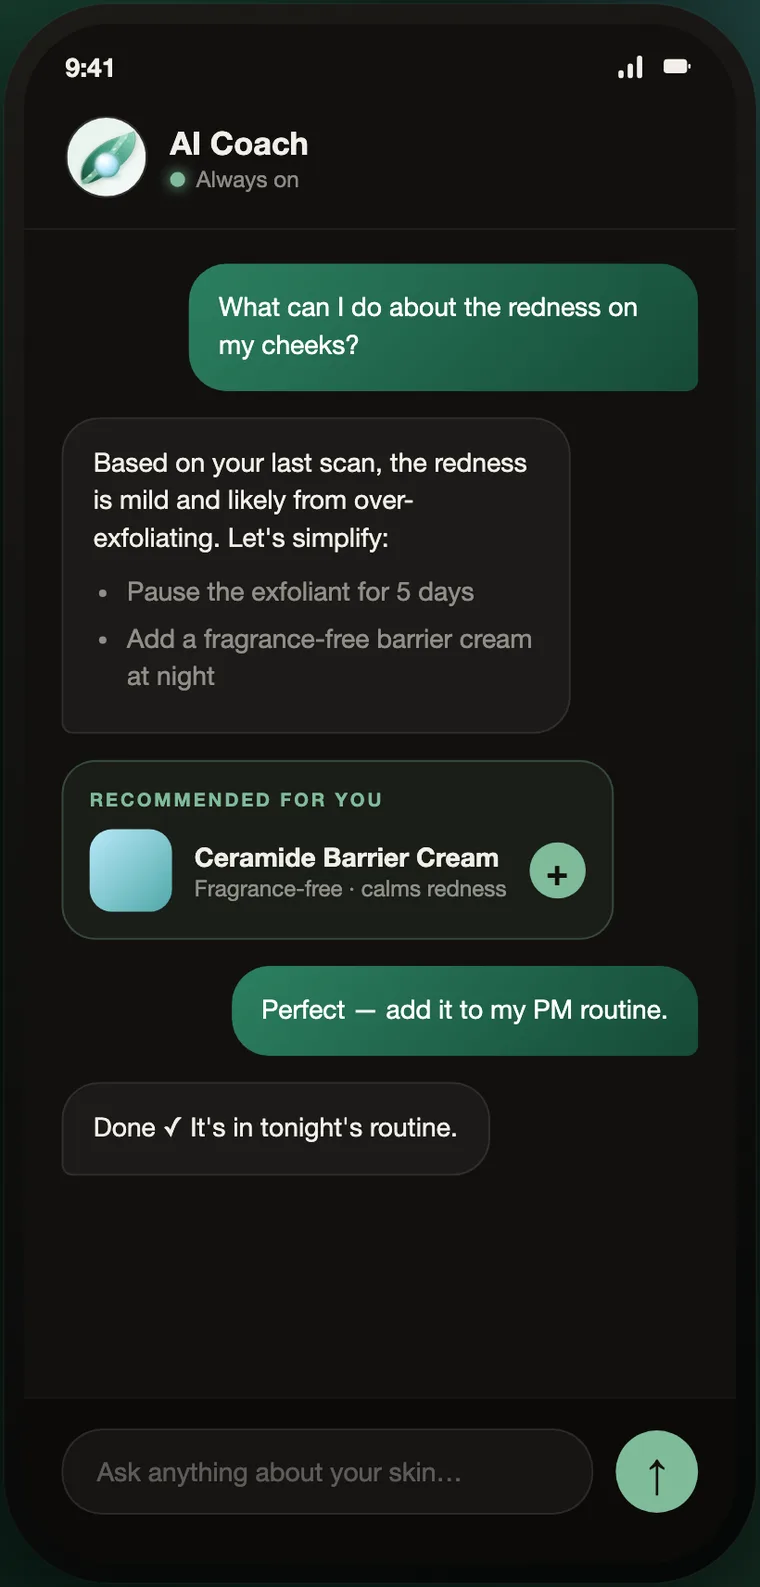
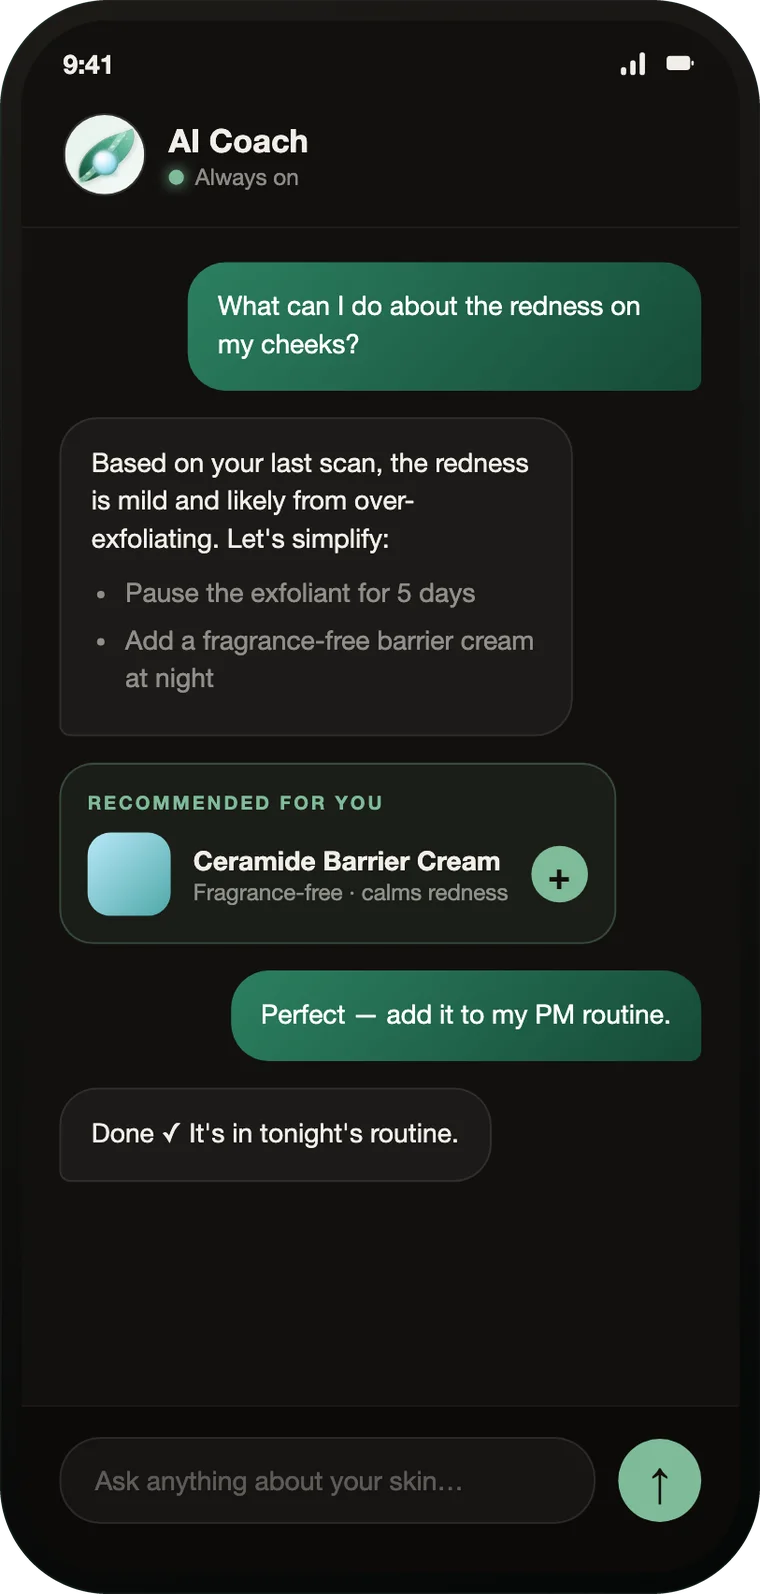
fix: phone crops, runaway buttons and the cramped blog nav on mobile
Three mobile problems, all visible on a real phone:

SCREENSHOTS. The crop was a plain rectangle, but the phone in the App Store
frames has a ~115px corner radius — so all four corners carried App Store
backdrop, which showed as a green glow around the mockup. Measured the radius
off the source and re-cropped with a supersampled rounded alpha mask, so the
corners are now transparent and the phone sits cleanly on any background.
.phone drops its border/border-radius/box-shadow accordingly: a box-shadow
traces a rectangle around a rounded image, so it uses drop-shadow, which
follows the alpha. Also sized the mockups down on phones (hero 268->240px,
features 250->228px) so they stop dominating the viewport.

BUTTONS. `.badge { width: 100% }` under 560px applied to every CTA on the
site, not just the stacked hero pair — which turned "Read the study" into an
edge-to-edge slab. Scoped to `.hero-actions` only.

BLOG NAV. Five items crushed into the bar and "Main site" wrapped onto two
lines. Links are now nowrap, "Main site" is a proper button, and the two
secondary links are hidden on phones (both are in the footer already).

Claude-Session: https://claude.ai/code/session_01SsWwdqURvZ6Krotuj6a9EE

diff --git a/site.css b/site.css
@@ -105,12 +105,11 @@ nav .wrap { display: flex; align-items: center; justify-content: space-between; 
 .badge-ghost:hover { border-color: var(--mint); color: var(--mint); }
 
 /* phone frames */
-.phone {
-  border-radius: 30px; overflow: hidden;
-  border: 1px solid var(--line-2);
-  box-shadow: 0 40px 90px -40px rgba(0,0,0,.9), 0 0 0 1px rgba(255,255,255,.02) inset;
-  background: #000;
-}
+/* The PNG carries its own rounded alpha mask, so no frame here — a
+   border-radius would clip the corners twice and a box-shadow would trace a
+   rectangle around a rounded image. drop-shadow follows the alpha instead. */
+.phone { filter: drop-shadow(0 26px 46px rgba(0,0,0,.62)); }
+.phone img { width: 100%; height: auto; }
 .hero-shot { justify-self: center; max-width: 320px; width: 100%; }
 .hero-shot .phone { transform: rotate(1.2deg); }
 
@@ -222,10 +221,10 @@ footer p { color: var(--on-night-3); font-size: 13px; }
   .hero-grid { grid-template-columns: 1fr; text-align: center; }
   .hero-sub { margin-inline: auto; }
   .hero-actions { justify-content: center; }
-  .hero-shot { max-width: 268px; margin-top: 12px; }
+  .hero-shot { max-width: 240px; margin-top: 12px; }
   .feature { grid-template-columns: 1fr; text-align: center; gap: 28px; }
   .feature:nth-child(even) .feature-shot { order: 0; }
-  .feature-shot { order: 0; max-width: 250px; }
+  .feature-shot { order: 0; max-width: 228px; }
   .feature p { margin-inline: auto; }
 }
 @media (max-width: 560px) {
@@ -233,8 +232,8 @@ footer p { color: var(--on-night-3); font-size: 13px; }
   .nav-links a:not(.nav-cta) { display: none; }
   .nav-links a.nav-mobile { display: inline; font-size: 14px; }
   .hero h1 { font-size: clamp(33px, 9vw, 44px); }
-  .badge, .badge-ghost { width: 100%; text-align: center; }
   .hero-actions { flex-direction: column; align-items: stretch; width: 100%; }
+  .hero-actions .badge, .hero-actions .badge-ghost { width: 100%; text-align: center; }
   .phone { border-radius: 24px; }
   .card { padding: 22px; }
 }

diff --git a/blog/src/styles/global.css b/blog/src/styles/global.css
@@ -61,9 +61,18 @@ nav {
 .logo-icon { width: 32px; height: 32px; border-radius: 9px; overflow: hidden; flex: none; }
 .logo-icon img { width: 100%; height: 100%; object-fit: cover; display: block; }
 .logo-sub { color: var(--mint); font-weight: 500; }
-.nav-links { display: flex; align-items: center; gap: 26px; }
-.nav-links a { color: var(--on-night-2); text-decoration: none; font-size: 14.5px; transition: color .18s; }
+.nav-links { display: flex; align-items: center; gap: 24px; }
+.nav-links a {
+  color: var(--on-night-2); text-decoration: none; font-size: 14.5px;
+  white-space: nowrap;              /* "Main site" must never wrap to two lines */
+  transition: color .18s;
+}
 .nav-links a:hover { color: var(--mint); }
+.nav-cta {
+  background: var(--mint); color: #08110D !important;
+  padding: 9px 17px; border-radius: 10px; font-weight: 650; font-size: 14px;
+}
+.nav-cta:hover { opacity: .9; }
 
 /* ---------- dark hero on the index ---------- */
 .hero-dark {
@@ -193,8 +202,12 @@ footer p { color: #64756C; font-size: 13px; margin-top: 14px; }
 @media (max-width: 640px) {
   nav { padding: 14px 18px; }
   .logo { font-size: 17px; }
-  .nav-links { gap: 16px; }
+  .nav-links { gap: 15px; }
   .nav-links a { font-size: 13.5px; }
+  /* Support lives in the footer too, so drop the secondary links on phones
+     rather than letting five items crush together in the bar. */
+  .nav-links a.nav-hide-sm { display: none; }
+  .logo { gap: 9px; }
   .hero-dark { padding: 68px 20px 76px; }
   .prose { font-size: 17px; }
   footer a { display: inline-block; margin: 5px 10px; }
